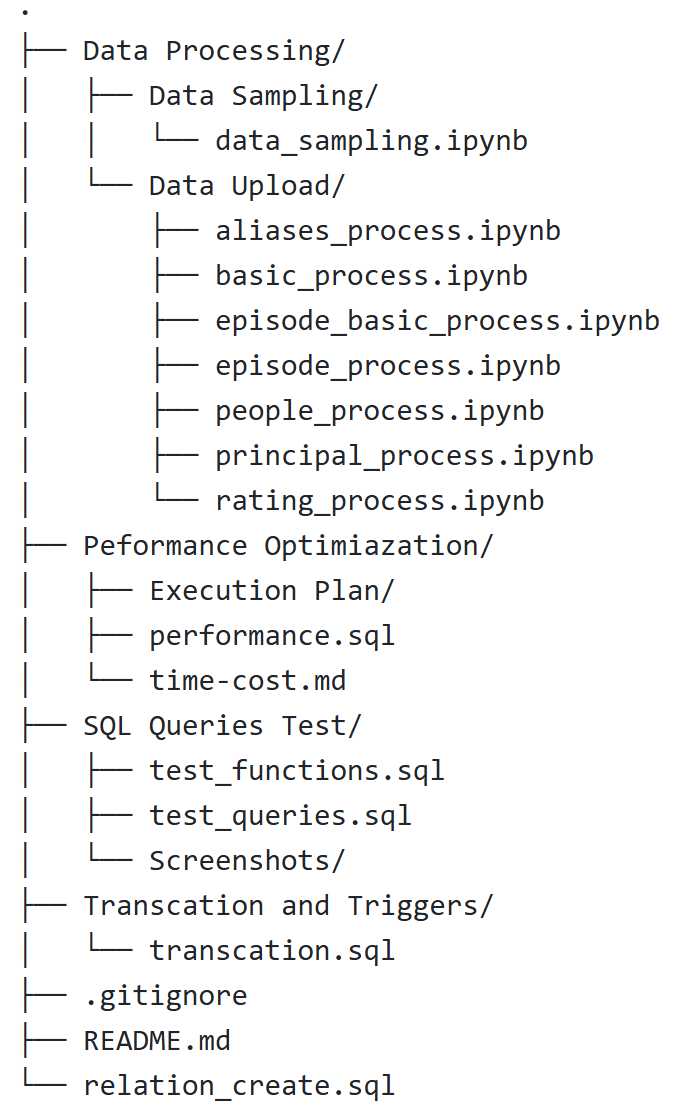
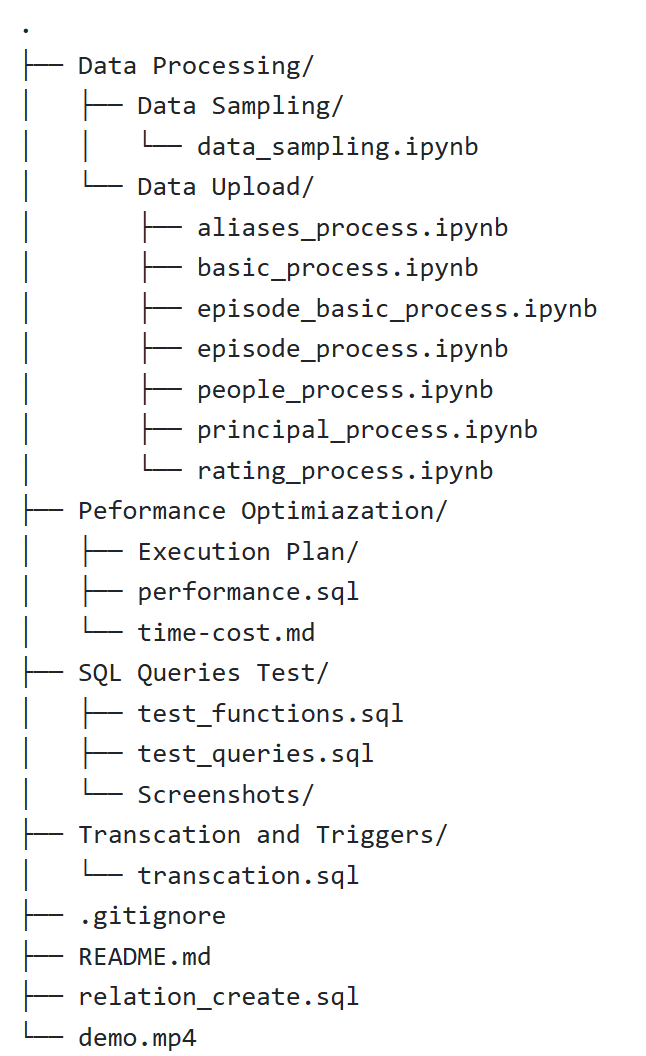
finish readme

Changed region(s): [[0.1238, 0.0312, 0.9598, 1.0], [0.031, 0.0312, 0.0929, 1.0]]

diff --git a/README.md b/README.md
@@ -56,8 +56,25 @@ This contains logic for Task 6 which asks for a simple transcation with Failure 
 
 The database is created using this file.
 
+> README.md
+
+A detailed description of the repository
+
+> .gitignore
+> Due to size limitation, original tsv and power BI files are ignored.
+
+> demo.mp4
+> The demonstration video of our database project.
+
 ---
 
 ## Power BI Visualization
 
 https://app.powerbi.com/view?r=eyJrIjoiMTBkZjg1NmMtNDVhNy00YTFkLTk4NTctMzRmNTdhZWRhYmYzIiwidCI6Ijk2NDY0YThhLWY4ZWQtNDBiMS05OWUyLTVmNmI1MGEyMDI1MCIsImMiOjN9
+
+---
+
+## Source of Original Dataset
+
+IMDb Non-Commercial Datasets
+https://developer.imdb.com/non-commercial-datasets/
